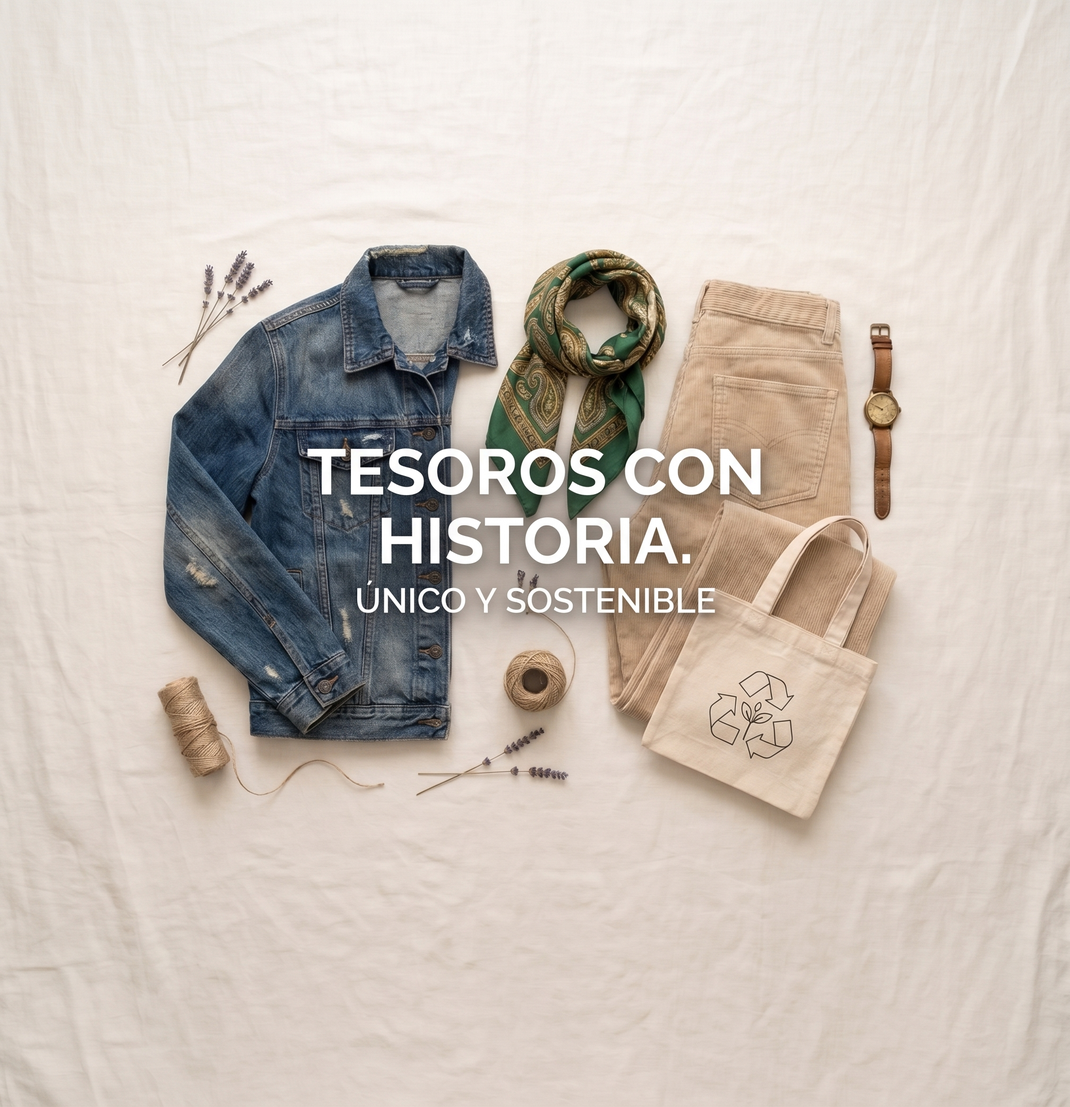
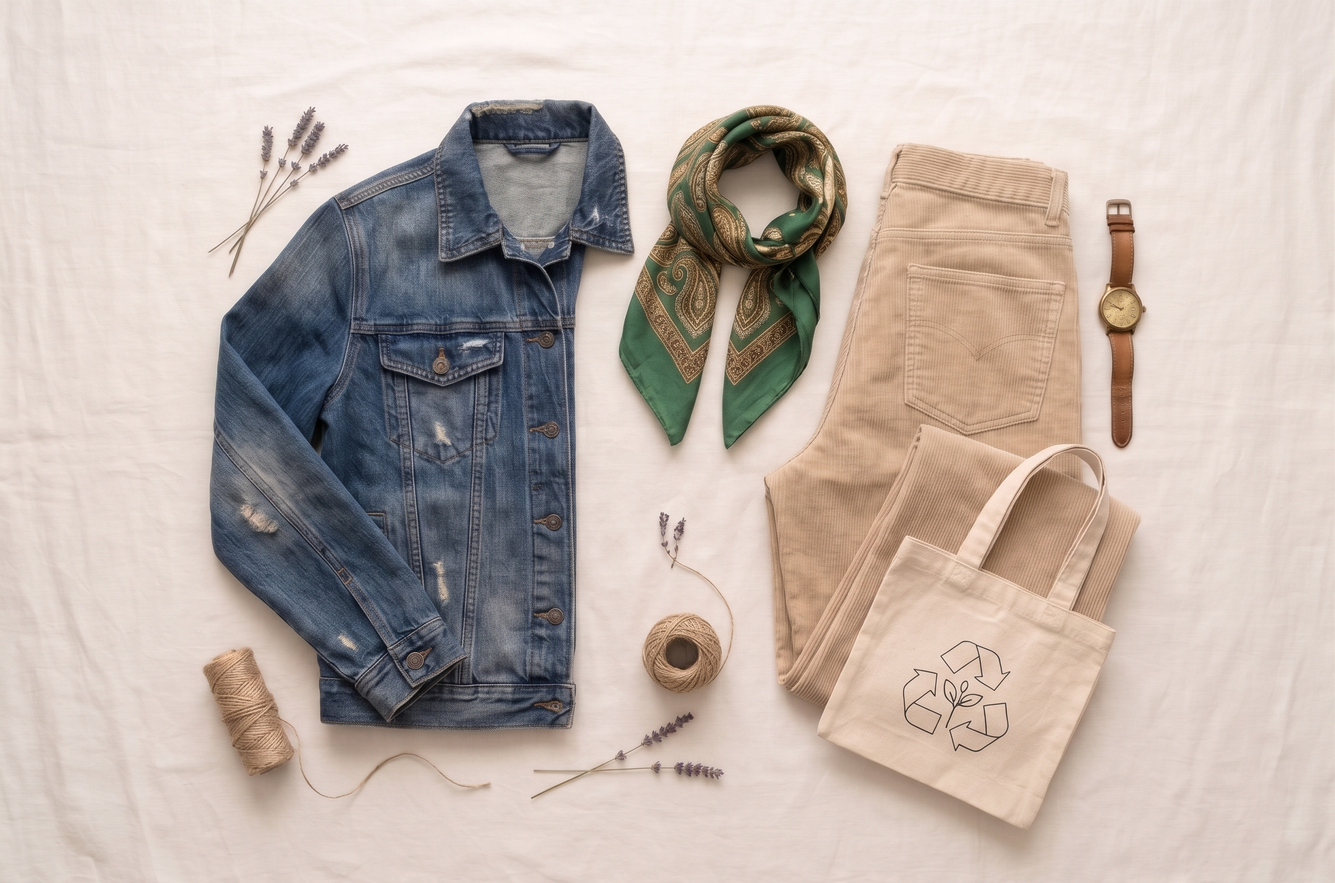
Fase2version1

diff --git a/HTML/pantallaPrincipal.html b/HTML/pantallaPrincipal.html
@@ -5,6 +5,61 @@
     <meta name="viewport" content="width=device-width, initial-scale=1.0" />
     <link rel="icon" type="image/png" href="../img/iconoTiendaSostenible.png" />
     <title>Página Principal</title>
+    <style>
+
+      *{
+        margin: 0;
+        padding: 0;
+        box-sizing: border-box;
+      }
+
+      img {
+        max-width: 100%;
+        height: auto;
+      }
+
+      .containerHeader{
+        display: flex;
+        justify-content: space-between;
+        flex-direction: row;
+        align-items: center;
+        padding: 10px 40px;
+      }
+
+      .containerHeader > a img {
+        height: auto;
+        width: 120px;
+      }
+
+      .iconos img{
+        width: 35px;
+        height: auto;
+        border: 3px solid mediumseagreen;
+        border-radius: 50%;
+      }
+
+      #menuPrincipal ul{
+        background-color: mediumseagreen;
+        display: flex;
+        flex-direction: row;
+        list-style: none;
+        gap: 50px;
+        border-radius: 5px;
+        padding: 20px 40px;
+      }
+
+      #menuPrincipal a{
+        font-weight: bold;
+        color: black;
+        text-decoration: none;
+        font-family: sans-serif;
+      }
+
+      .cta{
+        
+      }
+
+    </style>
   </head>
   <body>
     <div class="container">
@@ -30,17 +85,17 @@
             </div>
         </header>
       <main class="containerPagPrincipal">
-        <section class="cta">
-          <h2>TESOROS CON HISTORIA.</h2>
-          <p>ÚNICO Y SOSTENIBLE</p>
+        <section class="cta" style="background-image: url(../img/fotoPrincipal.jpg); background-size: cover; background-position: center; padding: 150px 20px;">
+          <h2 style="color: white; text-align: center; font-weight: bold; text-shadow: 2px 2px 10px black; font-family: sans-serif;">TESOROS CON HISTORIA.</h2>
+          <p style="color: white; text-align: center; font-weight: bold; text-shadow: 2px 2px 10px black; font-family: sans-serif;">ÚNICO Y SOSTENIBLE</p>
         </section>
         <section>
-          <h1>Destacados:</h1>
+          <h3 style="text-align: center; font-style: italic;" >DESTACADOS:</h3>
           <div>
             <a href="pantallaProducto.html" class="enlaceCard">
               <article class="card">
                 <div class="imagenCard">
-                  <img src="../img/camisetaEstampada.jpg" alt="Camiseta estampada"/>
+                  <img src="../img/camisetaEstampada.jpg" alt="Camiseta estampada" style="border: 3px solid mediumseagreen;"/>
                 </div>
                 <div class="infoCard">
                   <h4>Camiseta estampada</h4>
@@ -51,7 +106,7 @@
             <a href="pantallaProducto.html" class="enlaceCard">
               <article class="card">
                 <div class="imagenCard">
-                  <img src="../img/camisetaEstampada.jpg" alt="Camiseta estampada"/>
+                  <img src="../img/camisetaEstampada.jpg" alt="Camiseta estampada" style="border: 3px solid mediumseagreen;"/>
                 </div>
                 <div class="infoCard">
                   <h4>Camiseta estampada</h4>
@@ -62,7 +117,7 @@
             <a href="pantallaProducto.html" class="enlaceCard">
               <article class="card">
                 <div class="imagenCard">
-                  <img src="../img/camisetaEstampada.jpg" alt="Camiseta estampada"/>
+                  <img src="../img/camisetaEstampada.jpg" alt="Camiseta estampada" style="border: 3px solid mediumseagreen;"/>
                 </div>
                 <div class="infoCard">
                   <h4>Camiseta estampada</h4>
@@ -73,7 +128,7 @@
             <a href="pantallaProducto.html" class="enlaceCard">
               <article class="card">
                 <div class="imagenCard">
-                  <img src="../img/camisetaEstampada.jpg" alt="Camiseta estampada"/>
+                  <img src="../img/camisetaEstampada.jpg" alt="Camiseta estampada" style="border: 3px solid  mediumseagreen;"/>
                 </div>
                 <div class="infoCard">
                   <h4>Camiseta estampada</h4>
@@ -84,7 +139,7 @@
             <a href="pantallaProducto.html" class="enlaceCard">
               <article class="card">
                 <div class="imagenCard">
-                  <img src="../img/camisetaEstampada.jpg" alt="Camiseta estampada"/>
+                  <img src="../img/camisetaEstampada.jpg" alt="Camiseta estampada" style="border: 3px solid  mediumseagreen;"/>
                 </div>
                 <div class="infoCard">
                   <h4>Camiseta estampada</h4>
@@ -95,7 +150,7 @@
             <a href="pantallaProducto.html" class="enlaceCard">
               <article class="card">
                 <div class="imagenCard">
-                  <img src="../img/camisetaEstampada.jpg" alt="Camiseta estampada"/>
+                  <img src="../img/camisetaEstampada.jpg" alt="Camiseta estampada" style="border: 3px solid  mediumseagreen;"/>
                 </div>
                 <div class="infoCard">
                   <h4>Camiseta estampada</h4>
@@ -106,7 +161,7 @@
             <a href="pantallaProducto.html" class="enlaceCard">
               <article class="card">
                 <div class="imagenCard">
-                  <img src="../img/camisetaEstampada.jpg" alt="Camiseta estampada"/>
+                  <img src="../img/camisetaEstampada.jpg" alt="Camiseta estampada" style="border: 3px solid  mediumseagreen;"/>
                 </div>
                 <div class="infoCard">
                   <h4>Camiseta estampada</h4>
@@ -117,7 +172,7 @@
             <a href="pantallaProducto.html" class="enlaceCard">
               <article class="card">
                 <div class="imagenCard">
-                  <img src="../img/camisetaEstampada.jpg" alt="Camiseta estampada"/>
+                  <img src="../img/camisetaEstampada.jpg" alt="Camiseta estampada" style="border: 3px solid  mediumseagreen;"/>
                 </div>
                 <div class="infoCard">
                   <h4>Camiseta estampada</h4>
